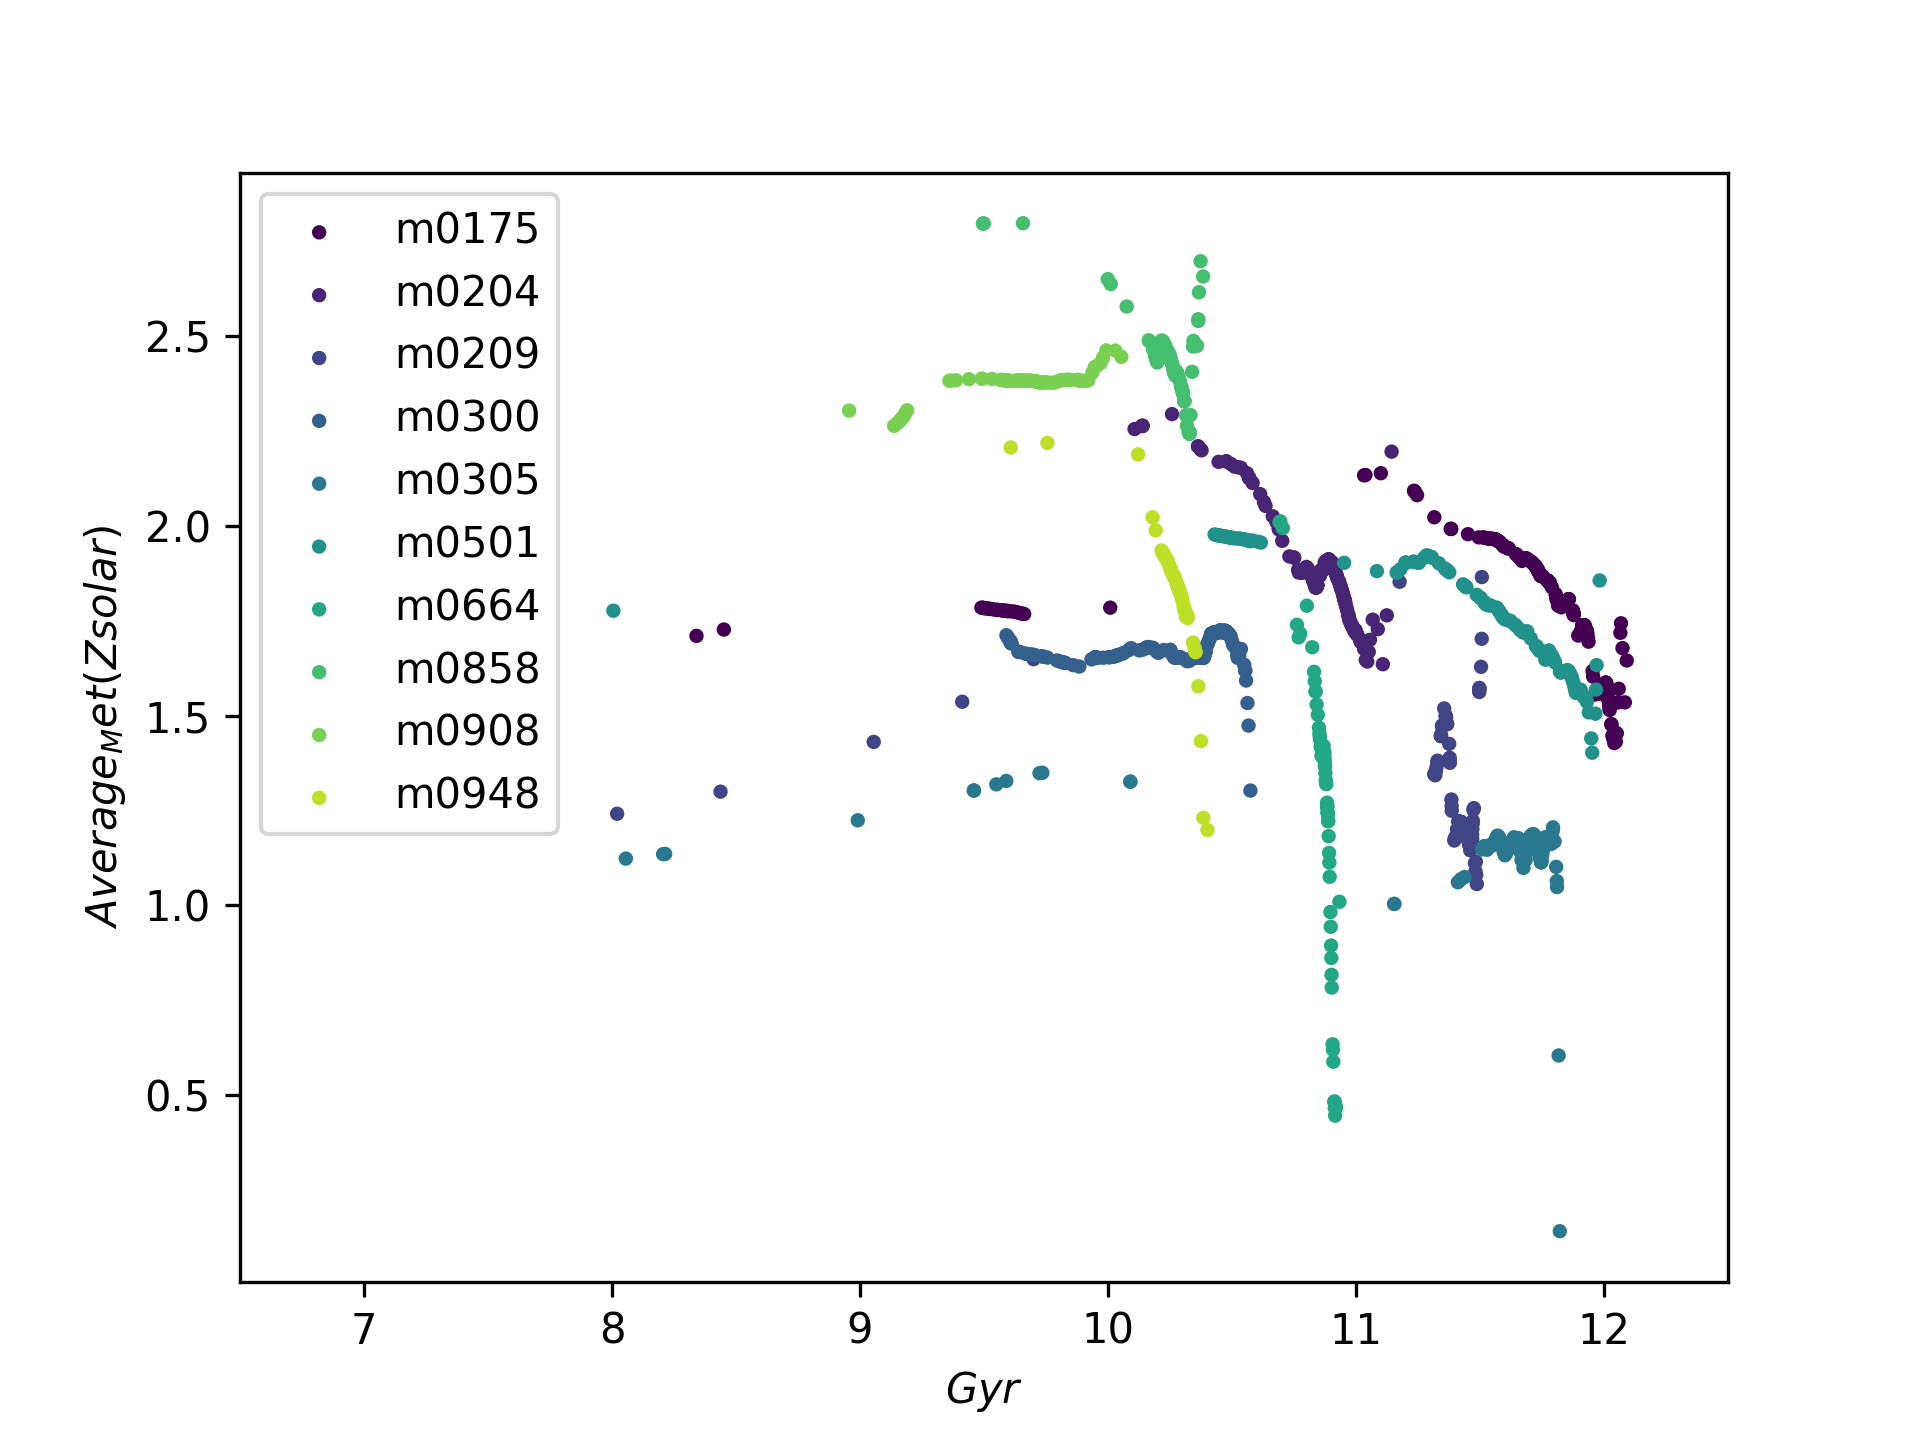
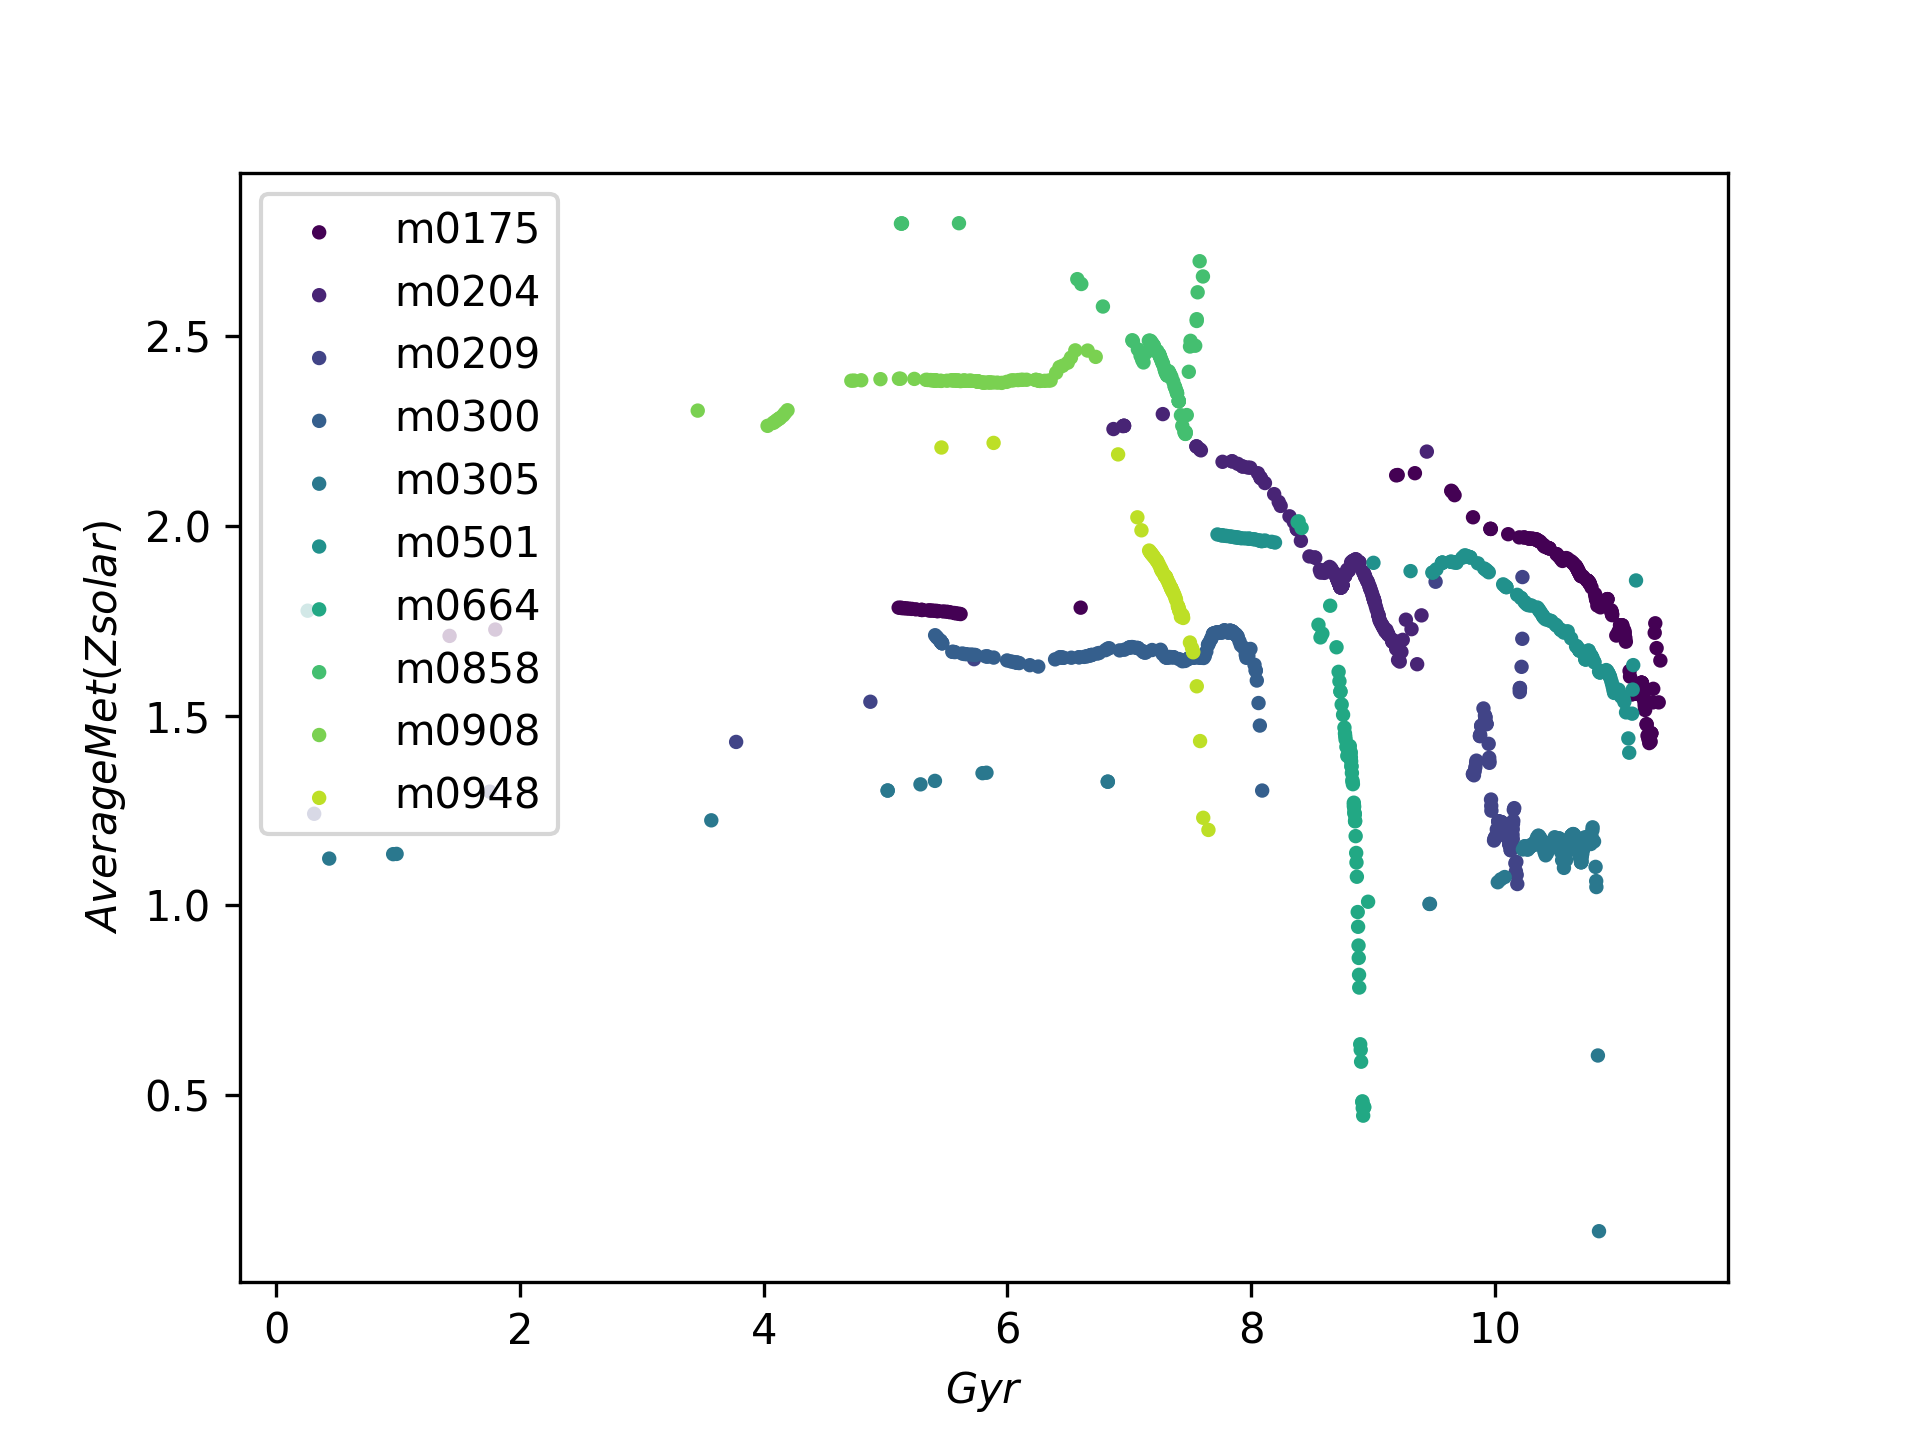
Changed fatal mistake with redshift, changed all graphs to lookbakc time

diff --git a/Fe_Mg.py b/Fe_Mg.py
@@ -2,6 +2,7 @@ import numpy as np
 import matplotlib.pyplot as plt
 import pandas as pd
 import pylab
+from astropy.cosmology import Planck13
 
 ### Read FILE
 columns = []
@@ -45,7 +46,7 @@ for i in range(len(halo_names)):
         for k in j:
             if k==halo_names[i]:
                 eachhr.append(j[halo_names[i]]) 
-                eachht.append(j['t']+1) 
+                eachht.append(j['t']) 
     rat.append(eachhr)
     time.append(eachht)
 print(rat[0][0])
@@ -55,16 +56,24 @@ print(time[0][0])
 x_ax= []
 f= []
 for dat in data:
-    x_ax.append(float(dat['z'])+1)
+    x_ax.append(float(dat['z']))
     f.append(float(dat['iron_gas'])/float(dat['Mg_gas']))
 y_ax=np.log10(f)
 # print(len(x_ax))
 # print(y_ax.size)
 
+### Convert Redshift to loockback time 
+lb_time=[]
+for i in time:
+    lb_time.append(Planck13.lookback_time(i))
+print(lb_time[0][0])
+#print('time')
+#print(Planck13.lookback_time(0.01))
+
 ### Creating plot
 WD = 'D:/SNU2022/Research/AGN_SI_SNU/'
 fig, ax = plt.subplots()
-ax.set_xlabel('$z+1$')
+ax.set_xlabel('$Gyr$')
 ax.set_ylabel('$log(Fe/Mg)$')
 c=[]
 halo=[]
@@ -74,7 +83,7 @@ for i in range(len(halo_names)):
     str=halo_names[i]
     #for j in range(len(time[i])):
         #ax1.plot(j['t'],'b',j[str])
-    halo.append(ax.scatter(time[i], rat[i], s=6, c=c, vmin=0, vmax=100,label=halo_names[i]))
+    halo.append(ax.scatter(lb_time[i], rat[i], s=6, c=c, vmin=0, vmax=100,label=halo_names[i]))
 #ax.scatter(time, rat, s=6, c=c, vmin=0, vmax=100)
 ax.legend(handles=halo)
 

diff --git a/BH_Mass.py b/BH_Mass.py
@@ -2,6 +2,7 @@ import numpy as np
 import matplotlib.pyplot as plt
 import pandas as pd
 import pylab
+from astropy.cosmology import Planck13
 
 ### Read FILE
 columns = []
@@ -45,7 +46,7 @@ for i in range(len(halo_names)):
         for k in j:
             if k==halo_names[i]:
                 eachhm.append(j[halo_names[i]]) 
-                eachht.append(j['t']+1) 
+                eachht.append(j['t']) 
     mass.append(np.log10(eachhm))
     time.append(eachht)
 print(mass[0][0])
@@ -61,11 +62,19 @@ y_ax=np.log10(f)
 # print(len(x_ax))
 # print(y_ax.size)
 
+### Convert Redshift to loockback time 
+lb_time=[]
+for i in time:
+    lb_time.append(Planck13.lookback_time(i))
+print(lb_time[0][0])
+#print('time')
+#print(Planck13.lookback_time(0.01))
+
 ### Creating plot
 WD = 'D:/SNU2022/Research/AGN_SI_SNU/'
 fig, ax = plt.subplots()
-ax.set_xlabel('$z+1$')
-ax.set_xlim(0,4)
+ax.set_xlabel('$Gyr$')
+#ax.set_xlim(0,4)
 ax.set_ylabel('$log(MBH/Msolar)$')
 c=[]
 halo=[]
@@ -75,7 +84,7 @@ for i in range(len(halo_names)):
     str=halo_names[i]
     #for j in range(len(time[i])):
         #ax1.plot(j['t'],'b',j[str])
-    halo.append(ax.scatter(time[i], mass[i], s=6, c=c, vmin=0, vmax=100,label=halo_names[i]))
+    halo.append(ax.scatter(lb_time[i], mass[i], s=6, c=c, vmin=0, vmax=100,label=halo_names[i]))
 #ax.scatter(time, rat, s=6, c=c, vmin=0, vmax=100)
 ax.legend(handles=halo)
 

diff --git a/Alpha.py b/Alpha.py
@@ -1,6 +1,7 @@
 import numpy as np
 import matplotlib.pyplot as plt
 import pandas as pd
+from astropy.cosmology import Planck13
 
 columns = []
 data = []
@@ -40,19 +41,27 @@ for i in range(len(halo_names)):
         for k in j:
             if k==halo_names[i]:
                 eachhm.append(j[halo_names[i]]/1000) 
-                eachht.append(j['t']+1) 
+                eachht.append(j['t']) 
     met.append(eachhm)
     time.append(eachht)
 #print(met)
 print(met[0][0])
 print(time[0][0])  
 
+### Convert Redshift to loockback time 
+lb_time=[]
+for i in time:
+    lb_time.append(Planck13.lookback_time(i))
+print(lb_time[0][0])
+#print('time')
+#print(Planck13.lookback_time(0.01))
+
 ### Creating plot
 #print(y_ax.size)
 WD = 'D:/SNU2022/Research/AGN_SI_SNU/'
 fig, ax = plt.subplots()
-ax.set_xlabel('$z+1$')
-ax.set_xlim(0,4)
+ax.set_xlabel('$Gyr$')
+#ax.set_xlim(0,4)
 ax.set_ylabel('$Alphamass/10^3*Msolar$')
 c=[]
 halo=[]
@@ -62,7 +71,7 @@ for i in range(len(halo_names)):
     str=halo_names[i]
     #for j in range(len(time[i])):
         #ax1.plot(j['t'],'b',j[str])
-    halo.append(ax.scatter(time[i], met[i], s=6, c=c, vmin=0, vmax=100,label=halo_names[i]))
+    halo.append(ax.scatter(lb_time[i], met[i], s=6, c=c, vmin=0, vmax=100,label=halo_names[i]))
 
 ax.legend(handles=halo)
 #plt.show()

diff --git a/Mg.py b/Mg.py
@@ -1,6 +1,7 @@
 import numpy as np
 import matplotlib.pyplot as plt
 import pandas as pd
+from astropy.cosmology import Planck13
 
 columns = []
 data = []
@@ -40,19 +41,27 @@ for i in range(len(halo_names)):
         for k in j:
             if k==halo_names[i]:
                 eachhm.append(j[halo_names[i]]/1000) 
-                eachht.append(j['t']+1) 
+                eachht.append(j['t']) 
     met.append(eachhm)
     time.append(eachht)
 #print(met)
 print(met[0][0])
 print(time[0][0])  
 
+### Convert Redshift to loockback time 
+lb_time=[]
+for i in time:
+    lb_time.append(Planck13.lookback_time(i))
+print(lb_time[0][0])
+#print('time')
+#print(Planck13.lookback_time(0.01))
+
 ### Creating plot
 #print(y_ax.size)
 WD = 'D:/SNU2022/Research/AGN_SI_SNU/'
 fig, ax = plt.subplots()
-ax.set_xlabel('$z+1$')
-ax.set_xlim(0,4)
+ax.set_xlabel('$Gyr$')
+#ax.set_xlim(0,4)
 ax.set_ylabel('$MGmass/10^3*Msolar$')
 c=[]
 halo=[]
@@ -62,7 +71,7 @@ for i in range(len(halo_names)):
     str=halo_names[i]
     #for j in range(len(time[i])):
         #ax1.plot(j['t'],'b',j[str])
-    halo.append(ax.scatter(time[i], met[i], s=6, c=c, vmin=0, vmax=100,label=halo_names[i]))
+    halo.append(ax.scatter(lb_time[i], met[i], s=6, c=c, vmin=0, vmax=100,label=halo_names[i]))
 
 ax.legend(handles=halo)
 #plt.show()

diff --git a/Met.py b/Met.py
@@ -1,6 +1,7 @@
 import numpy as np
 import matplotlib.pyplot as plt
 import pandas as pd
+from astropy.cosmology import Planck13
 
 columns = []
 data = []
@@ -40,19 +41,27 @@ for i in range(len(halo_names)):
         for k in j:
             if k==halo_names[i]:
                 eachhm.append(j[halo_names[i]]) 
-                eachht.append(j['t']+1) 
+                eachht.append(j['t']) 
     met.append(eachhm)
     time.append(eachht)
-#print(met)
+# print(met)
 print(met[0][0])
 print(time[0][0])  
+
+### Convert Redshift to loockback time 
+lb_time=[]
+for i in time:
+    lb_time.append(Planck13.lookback_time(i))
+print(lb_time[0][0])
+#print('time')
+#print(Planck13.lookback_time(0.01))
 
 ### Creating plot
 #print(y_ax.size)
 WD = 'D:/SNU2022/Research/AGN_SI_SNU/'
 fig, ax = plt.subplots()
-ax.set_xlabel('$z+1$')
-ax.set_xlim(0,4)
+ax.set_xlabel('$Gyr$')
+#ax.set_xlim(0,4)
 ax.set_ylabel('$Z/Zsolar$')
 c=[]
 halo=[]
@@ -62,7 +71,7 @@ for i in range(len(halo_names)):
     str=halo_names[i]
     #for j in range(len(time[i])):
         #ax1.plot(j['t'],'b',j[str])
-    halo.append(ax.scatter(time[i], met[i], s=6, c=c, vmin=0, vmax=100,label=halo_names[i]))
+    halo.append(ax.scatter(lb_time[i], met[i], s=6, c=c, vmin=0, vmax=100,label=halo_names[i]))
 
 ax.legend(handles=halo)
 #plt.show()

diff --git a/Average_Met.py b/Average_Met.py
@@ -47,7 +47,7 @@ for i in range(len(halo_names)):
         for k in j:
             if k==halo_names[i]:
                 eachh.append({ 'Masp': j['part_mass'],'Zp':j['Z'] } ) 
-                eacht.append(j['z']+1) 
+                eacht.append(j['z']) 
     Split_dict.append(eachh)
     time.append(eacht)
 
@@ -107,8 +107,8 @@ def plot(amet,time):
     WD = 'D:/SNU2022/Research/AGN_SI_SNU/'
     fig, ax = plt.subplots()
     ax.set_xlabel('$Gyr$')
-    ax.set_xlim(6.5,12.5)
-    ax.set_ylabel('$Average_Met(Zsolar)$')
+    #ax.set_xlim(6.5,12.5)
+    ax.set_ylabel('$AverageMet(Zsolar)$')
     c=[]
     halo=[]
     for i in range(len(halo_names)):

diff --git a/Fe.py b/Fe.py
@@ -41,7 +41,7 @@ for i in range(len(halo_names)):
         for k in j:
             if k==halo_names[i]:
                 eachhm.append(j[halo_names[i]]/1000) 
-                eachht.append(j['t']+1) 
+                eachht.append(j['t']) 
     met.append(eachhm)
     time.append(eachht)
 #print(met)
